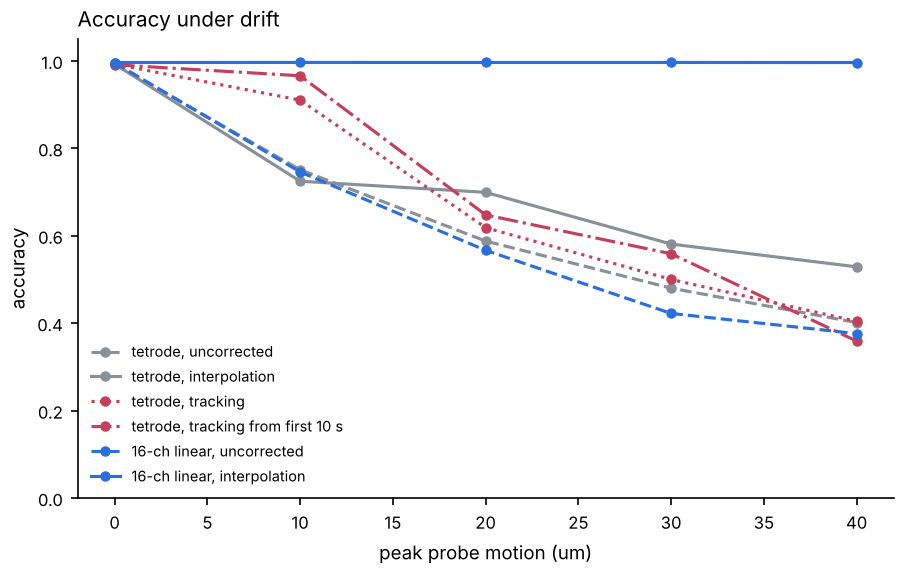
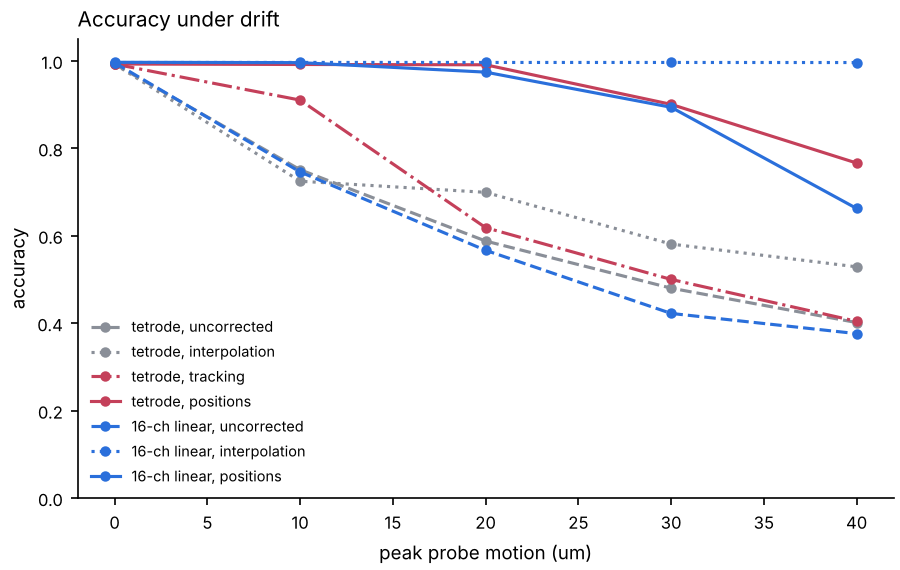
README: Finding 9 (drift in position space), drift benchmark with the positions mode, trajectories figure
Tetrode: 0.99 at 10 and 20 um of motion (was 0.75 and 0.59), 0.90 at
30 um, 0.77 at 40 um. Linear probe: equal to interpolation up to 20 um,
behind it at 30 and 40 um because this method clusters the drifting
data first. Drift estimate in microns on the probe, time course only on
the tetrode, with the degeneracy that makes it so written up.
SpikeInterface drifting generator: 0.738 (interpolation 0.927,
uncorrected 0.589).

Claude-Session: https://claude.ai/code/session_01MbUT6UGGfE3U1ZkEHjAbTh

diff --git a/README.md b/README.md
@@ -13,6 +13,8 @@ raw voltage
   -> bandpass 300-6000 Hz (zero-phase Butterworth)
   -> drift correction (optional, linear arrays): estimate motion from spike
      depths, re-interpolate channels so every neuron stays put
+     (or, any geometry: localize every cluster over time, link the pieces
+     of each drifting neuron and match with templates that follow it)
   stage one
   -> detect: union of a 5 sigma threshold (1 ms dead time) and a smoothed
              multichannel energy score (2 ms dead time)
@@ -37,6 +39,7 @@ raw voltage
 | `cluster.py` | GMM with BIC, split and merge passes, cluster separation (d'). |
 | `matching.py` | Template selection, FFT matched filtering, greedy matching pursuit with refinement. |
 | `drift.py` | Spike depths, pairwise histogram registration with least-squares reconciliation, kriging channel shift. |
+| `localize.py` | Point-source localization of clusters per time bin, linking of a drifting neuron's pieces by continuity, templates rendered along each unit's trajectory, rigid drift registration. Works on a tetrode, where the channel shift does not. |
 | `tracking.py` | Experimental: chunked matching with templates that follow their units, merging and discovery. |
 | `evaluate.py` | SpikeForest-style accuracy, Hungarian matching, ISI violations, SNR, isolation distance (Harris et al. 2001), collision analysis. |
 
@@ -47,8 +50,10 @@ pip install -e ".[dev]"
 spikesort demo --units 5 --duration 60 --seed 0 --out results/
 spikesort demo --no-matching ...                                # stage one only
 spikesort demo --probe linear --units 8 --motion 20 --drift-correction ...
+spikesort demo --motion 20 --drift-correction --drift-method positions ...   # tetrode drift
 spikesort sort my_recording.npy --fs 30000 --out results/       # (n_samples, n_channels) array
 spikesort sort my_recording.npy --fs 30000 --positions chans.npy  # (n_channels, 2) um, enables drift correction
+spikesort sort my_recording.npy --fs 30000 --positions chans.npy --drift-method positions
 pytest
 ```
 
@@ -172,19 +177,19 @@ Noise 25 uV goes from 0.82 to 0.98 and noise 30 uV from 0.79 to 0.95, both equal
 
 ![Drift map: spike depths over time, raw and corrected](docs/img/drift_map.png)
 
-Real probes move relative to the tissue by tens of microns over a recording. The simulator now moves the electrodes along a slow sinusoid (one and a half cycles per recording) so each spike's per-channel amplitudes depend on when it fired. Nothing in the sorter assumed that, and it shows: on a 16-channel linear probe with 20 um of motion, stage one splits every unit into several clusters that are active at different times, and accuracy falls from 1.00 to 0.61, and to 0.39 at 40 um.
+Real probes move relative to the tissue by tens of microns over a recording. The simulator now moves the electrodes along a slow sinusoid (one and a half cycles per recording) so each spike's per-channel amplitudes depend on when it fired. Nothing in the sorter assumed that, and it shows: on a 16-channel linear probe with 20 um of motion, stage one splits every unit into several clusters that are active at different times, and accuracy falls from 1.00 to 0.57, and to 0.38 at 40 um.
 
 The correction follows Kilosort 2.5. Every detected spike gets a depth, the centre of mass of its squared per-channel trough amplitudes along the shank. The recording is cut into 2 s bins, each bin becomes an amplitude-weighted depth histogram, every pair of bins is registered by cross-correlation, and the pairwise shifts are reconciled into one trajectory by weighted least squares. The filtered data is then re-sampled along the shank at each sample's displacement with a Gaussian-kernel interpolant, and the ordinary pipeline runs on the result. Three passes, because the centre of mass under-reads motion by about 10% and each pass picks up most of what is left. Reproduce with `python benchmarks/drift.py`.
 
-| Peak motion (um) | Tetrode | Tetrode, interpolation | Tetrode, tracking | Tetrode, tracking from first 10 s | Linear 16-ch | Linear, interpolation | Drift estimate error (um) |
+| Peak motion (um) | Tetrode | Tetrode, interpolation | Tetrode, tracking | Tetrode, positions | Linear 16-ch | Linear, interpolation | Linear, positions |
 |---|---|---|---|---|---|---|---|
-| 0 | 0.99 | 0.99 | 0.99 | 0.99 | 1.00 | 1.00 | 0.6 |
-| 10 | 0.75 | 0.72 | 0.91 | 0.97 | 0.75 | 1.00 | 0.9 |
-| 20 | 0.59 | 0.70 | 0.62 | 0.65 | 0.57 | 1.00 | 0.8 |
-| 30 | 0.48 | 0.58 | 0.50 | 0.56 | 0.42 | 1.00 | 0.9 |
-| 40 | 0.40 | 0.53 | 0.40 | 0.36 | 0.38 | 1.00 | 0.9 |
+| 0 | 0.99 | 0.99 | 0.99 | 0.99 | 1.00 | 1.00 | 1.00 |
+| 10 | 0.75 | 0.72 | 0.91 | 0.99 | 0.75 | 1.00 | 1.00 |
+| 20 | 0.59 | 0.70 | 0.62 | 0.99 | 0.57 | 1.00 | 0.97 |
+| 30 | 0.48 | 0.58 | 0.50 | 0.90 | 0.42 | 1.00 | 0.89 |
+| 40 | 0.40 | 0.53 | 0.40 | 0.77 | 0.38 | 1.00 | 0.66 |
 
-Means of 2 seeds, 60 s recordings. On the linear probe the corrected accuracy at every motion level equals the no-motion accuracy, and the trajectory is recovered to within 1 um rms (the 0.6 um at zero motion is the estimator's own noise floor). Uncorrected, stage one reports 13 to 24 clusters for 8 neurons. The two tracking columns are Finding 8.
+Means of 2 seeds, 60 s recordings. On the linear probe the corrected accuracy at every motion level equals the no-motion accuracy, and the trajectory is recovered to within 1 um rms. Uncorrected, stage one reports 13 to 24 clusters for 8 neurons. The tracking column is Finding 8 and the two positions columns are Finding 9.
 
 ![Accuracy under drift](docs/img/drift.png)
 
@@ -193,11 +198,11 @@ Things that mattered:
 * **Units beyond the ends of the array break the estimate.** The first attempt used an 8-channel probe with units placed up to 15 um past its ends, and the estimated trajectory was off by 12 um rms. A unit beyond the last channel has a centre of mass pinned near that channel, and as it moves further away the centre of mass can even move the wrong way. Interior units on a 16-channel probe track motion at 0.89 um per um. Real probes are long, so this is mostly a short-array problem, but it is also why depth estimates need care near the ends.
 * **Read amplitudes at the trough, not as each channel's minimum.** The minimum over a 2 ms window of a noise-only channel is always a few sigma negative, which biased every spike towards the middle of the array and doubled the per-spike depth noise.
 * **Register all pairs of bins, not each bin against its predecessor.** Chaining neighbours accumulates error over the recording. The least-squares reconciliation of all pairs does not, and pairs of bins that share no units simply get a low weight.
-* **A tetrode cannot really be corrected this way.** Four channels on a square give no axis to interpolate along, and the kernel interpolant is a poor model of the field between them. Applied anyway, it recovers a part of the loss at 20 um and above (0.59 to 0.70 at 20 um, 0.40 to 0.53 at 40 um) and nothing at 10 um. Following templates over time is the tetrode answer, and Finding 8 is what came of that.
+* **A tetrode cannot really be corrected this way.** Four channels on a square give no axis to interpolate along, and the kernel interpolant is a poor model of the field between them. Applied anyway, it recovers a part of the loss at 20 um and above (0.59 to 0.70 at 20 um, 0.40 to 0.53 at 40 um) and nothing at 10 um. Following templates over time was the first tetrode answer (Finding 8), and working in position space the second (Finding 9).
 
 ### Finding 8: following templates over time helps a tetrode only sometimes
 
-A tetrode has no axis to interpolate along, so its drift answer has to be the Kilosort 1 one: let each template follow its neuron. `tracking.py` is an experimental stage two that processes the recording in 5 s chunks, moves each template towards the median of the spikes it just won (with the other units' spikes subtracted), merges templates that have become one neuron, and clusters whatever the templates could not explain to find units that appear late. `SortConfig(tracking=True)` turns it on. It is benchmarked above, as the two tracking columns.
+A tetrode has no axis to interpolate along, so its drift answer has to be the Kilosort 1 one: let each template follow its neuron. `tracking.py` is an experimental stage two that processes the recording in 5 s chunks, moves each template towards the median of the spikes it just won (with the other units' spikes subtracted), merges templates that have become one neuron, and clusters whatever the templates could not explain to find units that appear late. `SortConfig(tracking=True)` turns it on. It is benchmarked above, as the tracking column.
 
 It is a modest and unreliable gain, and the reason is instructive. A Gaussian mixture cuts a continuously drifting neuron into amplitude bands, and every band becomes a template that keeps winning the spikes in its own band, so nothing ever converges. Three ways of proving two bands are one neuron were tried, and each has a hole:
 
@@ -206,6 +211,32 @@ It is a modest and unreliable gain, and the reason is instructive. A Gaussian mi
 * **A density gap test** (the bands are adjacent slices of a continuum with no valley between them) works for a slow random walk and fails for oscillating drift, which dwells at its extremes and leaves a real valley. With a few hundred spikes per cluster it also cannot tell a continuum from two neurons at d' of 3. It is in `cluster.py` as `gap_ratio`, off by default.
 
 What does work is the handover: a template that has tracked its neuron onto a stale band's position becomes the same waveform as that band's template, and the two are merged on template similarity at that moment. Starting the templates from the first 10 s of the recording avoids most bands but costs precision (0.58 to 0.83 at 20 um and above), because a template occasionally drifts onto a different neuron and discovery adds junk. At 10 um of motion, where bands are rare, tracking takes the tetrode from 0.75 to 0.91, or 0.97 from the first 10 s. At 20 um and beyond the gain over no correction is a few hundredths. Long recordings help all of this: on a 120 s tetrode recording with 20 um of motion the full-recording variant reached 0.80 and the first-10-s variant 0.87, against 0.55 uncorrected.
+
+### Finding 9: a tetrode cannot say how far it moved, but it can say which spikes belong together
+
+![Stage-one clusters as amplitude trajectories, linked into units, and the drift time course](docs/img/trajectories.png)
+
+The tracking result said the problem was never the matching but the bands: a Gaussian mixture cuts a drifting neuron into pieces that are active at different times, and no amount of waveform comparison proves two pieces are one neuron, because they are different waveforms. What does connect them is geometry. A spike's amplitudes across channels say where its neuron is, so with a point-source model of the field (amplitude falls off as distance to the power 1.5, the same law the simulator uses) a cluster's mean profile in each 2 s bin gives the cluster's position in that bin, and the bins give its trajectory. `localize.py` does that for every cluster, links the trajectories that continue each other into units, renders each unit's template for every bin by scaling its channels along the unit's own trajectory, and matches bin by bin. `SortConfig(drift_correction=True, drift_method="positions")` turns it on, and it runs on any geometry.
+
+The first thing it found was a fact about tetrodes. With every channel the same distance from the centre, the amplitude profile is exactly invariant to moving the source along the ray from the centre while adjusting its height: a fit with the height free has a one-parameter family of solutions with zero residual, so the height cannot be recovered, nor the absolute scale of positions, nor the size of the drift. Four numbers per spike are not enough. A linear probe has channels at different distances from the centre, the degeneracy is gone, and the fit recovers the height to within a micron. The consequences on a tetrode run through the whole design:
+
+* **No displacement in microns.** `Sorting.drift` is left empty on a degenerate geometry. What can be read off is the drift's time course: in fitted-position space every unit moves radially, towards the centre when the array approaches it and away when it recedes, so each unit's radial excursion, signed by the side of the drift axis it sits on and scaled to unit variance, is an estimate of the drift's shape. Averaged over units it correlates with the true motion at 0.8 for 10 and 20 um of motion and 0.7 at 30 um (table below), with the amplitude unknown. The right panel of the figure shows it.
+* **No common frame for linking.** Fitted positions move by neuron-dependent amounts (a neuron near the array moves far in fitted space for a small real motion), so a rigid registration of the trajectories, which is exactly right on a probe, means nothing on a tetrode. Two pieces of one neuron are instead linked by continuity: each one's trajectory is extrapolated across the gap, the model renders the profile it predicts there, and the piece on the other side has to match it to within 40%. On a probe the extrapolation follows the rigid drift, on a tetrode a line in time. Both pieces also need the same waveform time course on their loudest channel (correlation above 0.97), and this is the weakest of the three tests, because real neurons can share a time course.
+* **The strongest cue is that a neuron is in one place at a time.** Two pieces of one neuron are never active in the same bin except while it crosses between them, and two neurons that both fire are active together throughout. Candidate links are made best first, and a link is refused when the two groups it would join fire in the same bins more than 30% of the time. Once a neuron's pieces are together they cover the recording, so a neighbouring piece that happens to continue one of them is kept out by the whole. This is what makes the linking robust to the thresholds above.
+* **The model sets the shape of a rendered template, the data its size.** Scaling a template by the model's gain ratios between two positions gets the profile shape right (3% error) and the size wrong by up to 60%, because the ratio depends on the height the model cannot know. Each bin's template is therefore rendered with the model's shape and the amplitude the cluster was measured at in that bin, interpolated where it had no spikes.
+* **A drifting unit looks like a collision cluster.** The composite-cluster test compares each spike with its cluster's median and drops the cluster if half the spikes are far from it, which is exactly what drift produces. Under this method each spike is compared with the median of its ten nearest neighbours in time instead, and a real unit passes while a collision cluster still fails.
+
+The results are in the table of Finding 7 (`python benchmarks/drift.py`, 60 s recordings, means of 2 seeds). On the tetrode the method takes 10 um of motion from 0.75 to 0.99 and 20 um from 0.59 to 0.99, with 5 units found for 5 neurons where the uncorrected sorter reports 10 to 11, and precision stays at 1.00. At 30 um it holds 0.90 and at 40 um 0.77, against 0.53 for the best of the earlier methods. On the linear probe it equals the interpolation method up to 20 um and falls behind it at 30 and 40 um (0.89 and 0.66 against 1.00). The reason is the order of operations: interpolation corrects the data before clustering, so stage one sees static neurons, while this method clusters the drifting data first and inherits whatever stage one got wrong. Where the fitted positions share a frame, the rigid registration of the trajectories is a drift estimate in microns, and up to 20 um of motion it is a better one than the centre-of-mass estimate of Finding 7.
+
+| Peak motion (um) | Linear, interpolation: drift error (um rms) | Linear, positions: drift error (um rms) | Tetrode, positions: correlation of the drift shape with the truth |
+|---|---|---|---|
+| 0 | 0.6 | 0.2 | |
+| 10 | 0.9 | 0.3 | 0.79 |
+| 20 | 0.8 | 0.9 | 0.81 |
+| 30 | 0.9 | 1.9 | 0.67 |
+| 40 | 0.9 | 10.6 | 0.20 |
+
+Where it stops working is stage one. At 40 um of motion on a tetrode, and from 30 um on the linear probe with 8 neurons, the pieces of different neurons cross in feature space and the mixture model merges them, so several of the largest clusters are chimeras of two neurons before the linking starts (purity 0.5 to 0.6 against the ground truth). Nothing downstream can undo that, and the fix is a clustering that knows about time, which is the next step below.
 
 ## Running on other data
 
@@ -226,30 +257,32 @@ The two `--generate` modes use SpikeInterface's own generators, which differ fro
 | 4 channels, 6 units, 30 s, static | 0.994 | 0.994 |
 | 16-channel linear, 8 units, 60 s, static | 1.000 | |
 | same, 20 um zigzag drift, uncorrected | 0.589 | |
-| same, drift corrected | 0.927 | |
+| same, drift corrected by interpolation | 0.927 | |
+| same, drift handled in position space | 0.738 | |
 
-The corrected drift result is lower than on our simulator (0.997 for the matching condition). One seed and one generator are not enough to say why. The zigzag's sharp turnarounds and the steeper ellipsoid falloff are the suspects.
+The interpolation result is lower than on our simulator (0.997 for the matching condition). One seed and one generator are not enough to say why. The zigzag's sharp turnarounds and the steeper ellipsoid falloff are the suspects. The position-space method (Finding 9) lands between the two on this generator, as it does on our own linear probe at larger motion: on a probe, correcting the data before clustering is the better order.
 
 ## Known limitations
 
 * **Knife-edge pairs.** Two units on the same channel with the same amplitude and templates correlating above 0.96 sit at the limit of what stage one can split. The split pass handles the cases in the benchmark, but whether BIC separates such a pair in the first place depends on details of the event set.
 * **Crowded probes.** With 8 to 10 units on 4 channels, accuracy settles at 0.97 and collision recall at 0.84 to 0.89, the same as with true templates. The residual errors are confusions between similar templates inside collisions, and more channels would be the real fix.
 * **Amplitude variation.** The simulator gives every spike of a unit the same amplitude. Real units burst with decaying amplitudes, which the 0.8 to 1.25 amplitude window and the detection step are not tuned for.
-* **Drift is rigid, along one axis, and only reliably correctable on a linear array.** The estimate is one displacement per time bin for the whole probe. Real drift can differ along a long probe (non-rigid), and on a tetrode the template-tracking alternative is partial (Finding 8). The estimator also needs units inside the array.
+* **Drift is rigid and along one axis.** The interpolation estimate is one displacement per time bin for the whole probe, and it needs units inside the array. Real drift can differ along a long probe (non-rigid). The position-space method does not assume rigid motion, but on a tetrode it handles up to about 20 um of motion in a 60 s recording and then runs into stage one (Finding 9), and it cannot report the motion in microns there at all.
 * **Short recordings.** Several of the tests that would separate drift from a second neuron (refractoriness above all) need minutes of data. The 60 s benchmarks are at the wrong end of that.
 * **Simulated data only so far.** The simulator is simple: Gaussian-shaped spikes, a monopole-like falloff, no bursting.
 
 ## Next steps
 
 * Real hybrid ground-truth recordings (SpikeForest, MEArec) through `benchmarks/real_data.py`, on a machine that can download them.
-* Tetrode drift: initialise tracking from a short window, then grow the recording length until the refractoriness test has power. Or a different clustering for drifting data altogether, such as clustering in time-sliced windows and linking.
+* Stage one that knows about time, for large drift: cluster in time-sliced windows and link the slices with the continuity test of `localize.py`, so that two neurons whose drift paths cross in feature space are never merged in the first place.
+* Real tetrode recordings with drift, through `benchmarks/real_data.py`, to see whether the point-source model and the linking thresholds hold up outside the simulator.
 * Bursting with amplitude decay in the simulator, and a matching step tuned for it.
 
 ## Project layout
 
 ```
 src/spikesort/      the package
-tests/              pytest suite (34 tests: unit tests per stage plus end-to-end)
+tests/              pytest suite (40 tests: unit tests per stage plus end-to-end)
 benchmarks/         sweep.py, alignment.py, drift.py and real_data.py, results in benchmarks/results/
 docs/img/           figures used in this README
 ```
